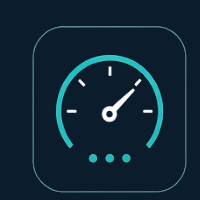
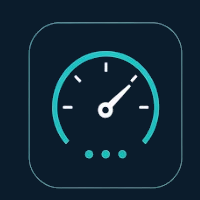
fix(brand): centralizar odômetro no ícone adaptativo Android

diff --git a/scripts/crop-brand-assets.php b/scripts/crop-brand-assets.php
@@ -33,7 +33,7 @@ $sheet3 = loadJpeg("{$sourceDir}/sheet-3-abcd.jpg");
 $crops = [
     // Variation D is the rounded app-icon card under the "D" label — not the label itself.
     // (772, 108, 248, 248) captured the D caption and the top of the mark only.
-    'app-icon.png' => crop($sheet3, 790, 250, 200, 200, solidNavyBg: true),
+    'app-icon.png' => crop($sheet3, 782, 250, 200, 200, solidNavyBg: true),
     'lockup-horizontal.png' => crop($sheet2, 517, 245, 447, 108, solidNavyBg: true),
     'lockup-horizontal-tagline.png' => crop($sheet2, 72, 79, 486, 127, solidNavyBg: true),
     // Skip the A/B caption row above each stacked lockup on sheet-3.
@@ -43,6 +43,10 @@ $crops = [
 ];
 
 foreach ($crops as $filename => $image) {
+    if ($filename === 'app-icon.png') {
+        $image = recenterMark($image);
+    }
+
     savePng($image, "{$outBackend}/{$filename}");
     savePng($image, "{$outFrontend}/{$filename}");
     imagedestroy($image);
@@ -200,6 +204,56 @@ function resize(\GdImage $source, int $w, int $h): \GdImage
  * Variation D includes a teal rounded-rect frame. Android adaptive icons mask the
  * foreground again, so keep only the inner odometer for ic_launcher_foreground.
  */
+function recenterMark(\GdImage $image): \GdImage
+{
+    $w = imagesx($image);
+    $h = imagesy($image);
+    $sumX = 0;
+    $sumY = 0;
+    $n = 0;
+
+    for ($y = 0; $y < $h; $y++) {
+        for ($x = 0; $x < $w; $x++) {
+            $rgba = imagecolorat($image, $x, $y);
+            $r = ($rgba >> 16) & 0xFF;
+            $g = ($rgba >> 8) & 0xFF;
+            $b = $rgba & 0xFF;
+
+            if (isForegroundPixel($r, $g, $b)) {
+                $sumX += $x;
+                $sumY += $y;
+                $n++;
+            }
+        }
+    }
+
+    if ($n === 0) {
+        return $image;
+    }
+
+    $dx = (int) round(($w / 2) - ($sumX / $n));
+    $dy = (int) round(($h / 2) - ($sumY / $n));
+
+    $dest = imagecreatetruecolor($w, $h);
+    $navy = imagecolorallocate($dest, NAVY[0], NAVY[1], NAVY[2]);
+    imagefill($dest, 0, 0, $navy);
+
+    $srcX = max(0, -$dx);
+    $srcY = max(0, -$dy);
+    $dstX = max(0, $dx);
+    $dstY = max(0, $dy);
+    $copyW = $w - abs($dx);
+    $copyH = $h - abs($dy);
+
+    if ($copyW > 0 && $copyH > 0) {
+        imagecopy($dest, $image, $dstX, $dstY, $srcX, $srcY, $copyW, $copyH);
+    }
+
+    imagedestroy($image);
+
+    return $dest;
+}
+
 function innerAppMark(\GdImage $appIcon): \GdImage
 {
     $w = imagesx($appIcon);
@@ -313,8 +367,8 @@ function generateAppIcons(string $sourcePath, string $frontendRoot): void
 
     $adaptiveDir = "{$frontendRoot}/android/app/src/main/res/drawable";
     if (is_dir($adaptiveDir)) {
-        $mark = innerAppMark($source);
-        $foreground = resizeWithSafeZone($mark, 432, 0.78);
+        $mark = recenterMark(innerAppMark($source));
+        $foreground = recenterMark(resizeWithSafeZone($mark, 432, 0.78));
         imagedestroy($mark);
         savePng($foreground, "{$adaptiveDir}/ic_launcher_foreground.png");
         savePng($foreground, "{$adaptiveDir}/ic_launcher.png");

diff --git a/tests/Unit/BrandAppIconCropTest.php b/tests/Unit/BrandAppIconCropTest.php
@@ -32,6 +32,8 @@ class BrandAppIconCropTest extends TestCase
         );
         $this->assertLessThan(40, $cornerTeal, 'Adaptive foreground still has the outer teal frame in the mask corners.');
 
+        $this->assertMarkIsHorizontallyCentered($image);
+
         imagedestroy($image);
     }
 
@@ -132,5 +134,31 @@ class BrandAppIconCropTest extends TestCase
     private function isTeal(int $r, int $g, int $b): bool
     {
         return $g > 120 && $b > 90 && $g > $r + 20;
+    }
+
+    private function assertMarkIsHorizontallyCentered(\GdImage $image): void
+    {
+        $width = imagesx($image);
+        $height = imagesy($image);
+        $sumX = 0;
+        $count = 0;
+
+        for ($y = 0; $y < $height; $y++) {
+            for ($x = 0; $x < $width; $x++) {
+                $rgba = imagecolorat($image, $x, $y);
+                $r = ($rgba >> 16) & 0xFF;
+                $g = ($rgba >> 8) & 0xFF;
+                $b = $rgba & 0xFF;
+
+                if ($this->isBrightLetter($r, $g, $b) || $this->isTeal($r, $g, $b)) {
+                    $sumX += $x;
+                    $count++;
+                }
+            }
+        }
+
+        $this->assertGreaterThan(0, $count);
+        $centroidX = $sumX / $count;
+        $this->assertEqualsWithDelta($width / 2, $centroidX, 3.0, 'Launcher mark is off-center horizontally.');
     }
 }
